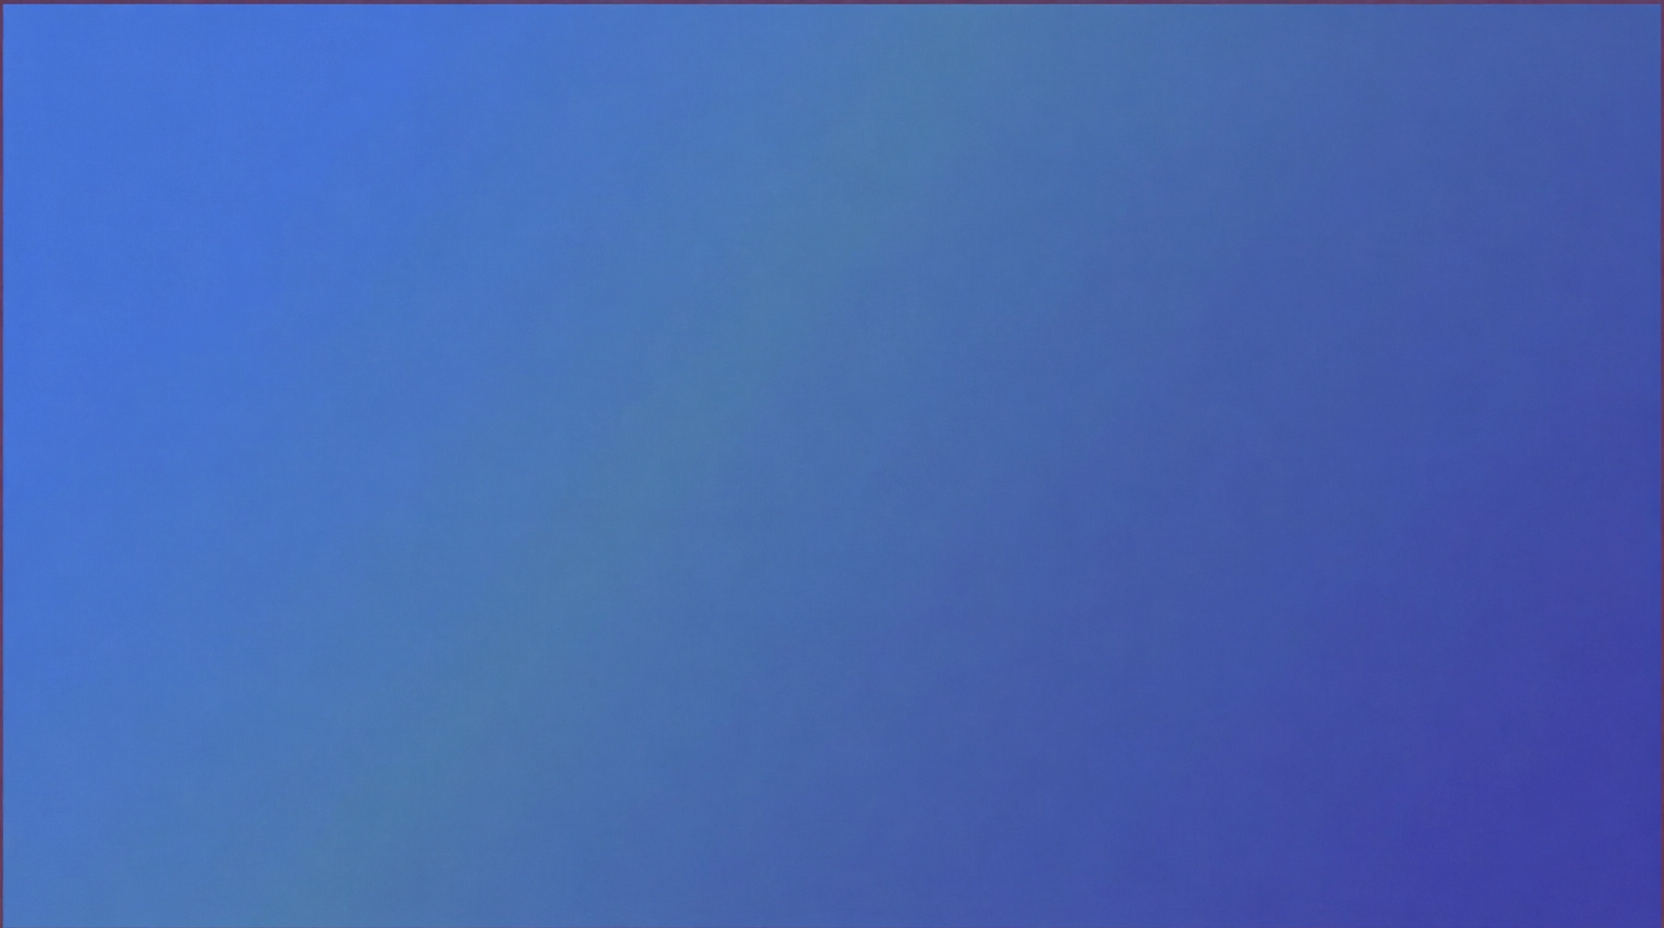
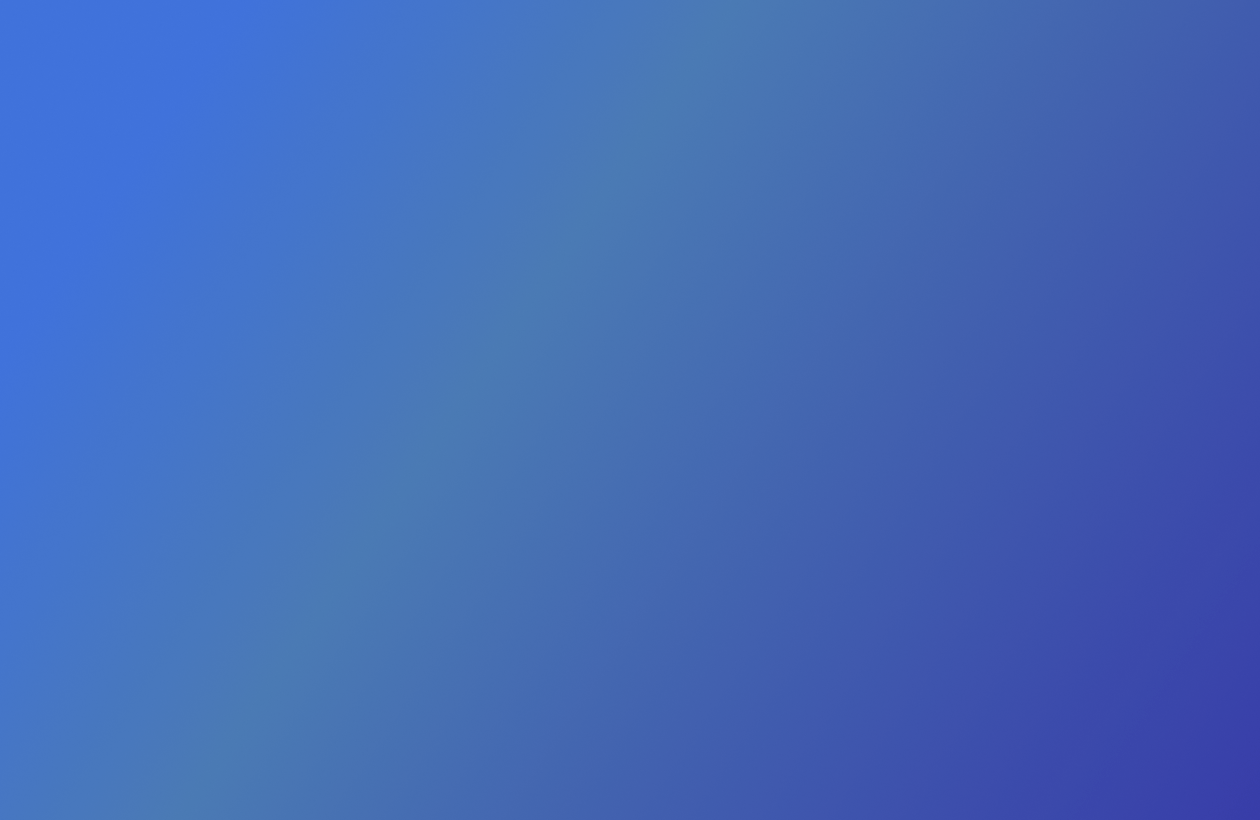
feat: implementa sistema de camadas e nuvens na tela de boas-vindas
- Refatoração do background utilizando múltiplas divs com z-index para criar profundidade (efeito parallax visual)
- Adição de múltiplas instâncias de nuvens com tamanhos e posições dinâmicas (em porcentagem) para maior realismo
- Posicionamento das nuvens à frente do gradiente escuro, garantindo brilho e destaque
- Ajuste do gradiente para escurecer apenas a área do texto, preservando a visibilidade da cidade e do parque no rodapé
- Centralização harmoniosa do bloco de texto com limite de largura (max-w)

Changed region(s): [[0.0, 0.0, 1.0, 1.0]]

diff --git a/frontend/src/pages/Welcome/Welcome.tsx b/frontend/src/pages/Welcome/Welcome.tsx
@@ -1,0 +1,83 @@
+import { useLocation, useNavigate } from 'react-router-dom';
+
+import bgWelcome from '../../assets/background-img-welcome-page.png';
+import bgCloud1 from '../../assets/img-nuvem-1.png'; 
+import bgCloud2 from '../../assets/img-nuvem-2.png';
+import bgCloud3 from '../../assets/img-nuvem-3.png';
+import bgBlue from '../../assets/background-img-blue.png';
+
+export function Welcome() {
+  const location = useLocation();
+  const navigate = useNavigate();
+
+  const playerName = location.state?.playerName || 'gestor';
+
+  const handleStartMandate = () => {
+    navigate('/game', { state: { playerName } });
+  };
+
+  return (
+    <div className="relative min-h-screen w-full flex flex-col items-center overflow-hidden">
+      
+
+      <div 
+        className="absolute inset-0 z-0" 
+        style={{ background: `url(${bgBlue}) center center / cover no-repeat` }} 
+      />
+
+
+      <div className="absolute inset-0 bg-gradient-to-b from-[#1e64c8]/90 via-[#1e64c8]/30 to-transparent z-[1]"></div>
+
+  
+      <div 
+        className="absolute inset-0 z-[2]"
+        style={{ 
+          backgroundImage: `url(${bgCloud1}), url(${bgCloud2}), url(${bgCloud3}), url(${bgCloud1}), url(${bgCloud2}), url(${bgCloud3})`,
+          backgroundPosition: '5% 12%, 48% 6%, 92% 16%, 18% 30%, 82% 35%, 40% 26%',
+          backgroundSize: '16% auto, 14% auto, 18% auto, 9% auto, 12% auto, 10% auto', 
+          backgroundRepeat: 'no-repeat, no-repeat, no-repeat, no-repeat, no-repeat, no-repeat'
+        }}
+      />
+
+  
+      <div 
+        className="absolute inset-0 z-[3]" 
+        style={{ background: `url(${bgWelcome}) center bottom / 100% auto no-repeat` }} 
+      />
+
+    
+      <div className="z-10 flex flex-col items-center px-4 pt-[22vh]">
+       
+        <div className="max-w-[600px] text-center animate-fade-in-up">
+          <p className="text-white text-[22px] md:text-[26px] font-normal leading-relaxed drop-shadow-[0_2px_8px_rgba(0,0,0,0.5)] mb-6">
+            Parabéns, <span className="font-medium capitalize">{playerName}</span>! A população de Ratanabá confiou a você a liderança da cidade.
+          </p>
+          <p className="text-white text-[22px] md:text-[26px] font-normal leading-relaxed drop-shadow-[0_2px_8px_rgba(0,0,0,0.5)]">
+            Agora, prepare seu plano de ação para enfrentar os desafios urbanos.
+          </p>
+        </div>
+
+        <button 
+          onClick={handleStartMandate}
+          className="mt-[32px] bg-[#D4E157] hover:bg-[#C5D64A] active:bg-[#B5C63A] text-[#1F2937] text-[16px] font-medium py-[12px] px-[28px] rounded-[8px] shadow-[0_2px_8px_rgba(0,0,0,0.15)] transition-all duration-200 hover:-translate-y-[2px] focus:outline-none animate-fade-in-up-delay"
+        >
+          Começar mandato
+        </button>
+      </div>
+
+      <style>{`
+        @keyframes fadeInUp {
+          from { opacity: 0; transform: translateY(20px); }
+          to { opacity: 1; transform: translateY(0); }
+        }
+        .animate-fade-in-up {
+          animation: fadeInUp 0.6s ease-out forwards;
+        }
+        .animate-fade-in-up-delay {
+          opacity: 0;
+          animation: fadeInUp 0.6s ease-out 0.2s forwards;
+        }
+      `}</style>
+    </div>
+  );
+}

diff --git a/frontend/src/pages/Home/Home.tsx b/frontend/src/pages/Home/Home.tsx
@@ -2,6 +2,7 @@ import { useState } from 'react';
 import { useNavigate } from 'react-router-dom';
 import { HelpCircle, Settings } from 'lucide-react';
 
+
 import bgImage from '../../assets/background-img-home.png';
 import bgBlue from '../../assets/background-img-blue.png';
 
@@ -12,7 +13,8 @@ export function Home() {
   const handleStartGame = (e: React.FormEvent) => {
     e.preventDefault();
     if (playerName) {
-      navigate('/game', { state: { playerName, cityName: 'Sua Cidade' } });
+    
+      navigate('/welcome', { state: { playerName } });
     }
   };
 
@@ -22,45 +24,34 @@ export function Home() {
       style={{ 
         backgroundImage: `url(${bgImage}), url(${bgBlue})`,
         backgroundPosition: 'center bottom, center center',
- 
-        backgroundSize: '100% auto, cover',
+        backgroundSize: '100% auto, cover', 
         backgroundRepeat: 'no-repeat, no-repeat'
       }}
     >
+
       <div className="absolute top-0 w-full p-6 flex justify-end gap-4 z-10">
-        <button 
-          className="text-white hover:text-gray-200 hover:opacity-80 transition-all cursor-pointer"
-          onClick={() => alert('Modal de Tutorial em breve!')}
-        >
+        <button className="text-white hover:opacity-80 transition-all cursor-pointer">
           <HelpCircle size={28} strokeWidth={1.5} />
         </button>
-        <button 
-          className="text-white hover:text-gray-200 hover:opacity-80 transition-all cursor-pointer"
-          onClick={() => alert('Painel de Configurações em breve!')}
-        >
+        <button className="text-white hover:opacity-80 transition-all cursor-pointer">
           <Settings size={28} strokeWidth={1.5} />
         </button>
       </div>
 
-    
-      <div className="z-10 flex flex-col items-center px-4 w-full">
-        
 
+      <div className="z-10 flex flex-col items-center px-4 w-full">
         <div className="text-center mb-[48px]">
-    
           <h1 className="font-light text-[40px] text-white tracking-[-0.5px] mb-[8px] drop-shadow-[0_2px_4px_rgba(0,0,0,0.15)] leading-none">
             Bem-vindo ao
           </h1>
-       
           <h2 className="font-bold text-[48px] text-white tracking-[-0.5px] drop-shadow-[0_2px_4px_rgba(0,0,0,0.15)] leading-none">
             Dilemas do Gestor
           </h2>
         </div>
 
-    
         <form 
           onSubmit={handleStartGame} 
-          className="inline-flex shadow-[0_2px_8px_rgba(0,0,0,0.12)] rounded-[8px]"
+          className="inline-flex shadow-[0_2px_8px_rgba(0,0,0,0.12)] rounded-[8px] overflow-hidden"
         >
           <input 
             type="text" 
@@ -77,7 +68,6 @@ export function Home() {
             Avançar
           </button>
         </form>
-
       </div>
     </div>
   );

diff --git a/frontend/src/App.tsx b/frontend/src/App.tsx
@@ -1,12 +1,13 @@
 import { BrowserRouter, Routes, Route } from 'react-router-dom';
 import { Home } from './pages/Home/Home';
+import { Welcome } from './pages/Welcome/Welcome';
 
 function App() {
   return (
     <BrowserRouter>
       <Routes>
         <Route path="/" element={<Home />} />
-        
+        <Route path="/welcome" element={<Welcome />} />
     
         <Route path="/game" element={<div style={{ textAlign: 'center', marginTop: '50px' }}><h1>Gabinete do Prefeito carregando...</h1></div>} />
       </Routes>
